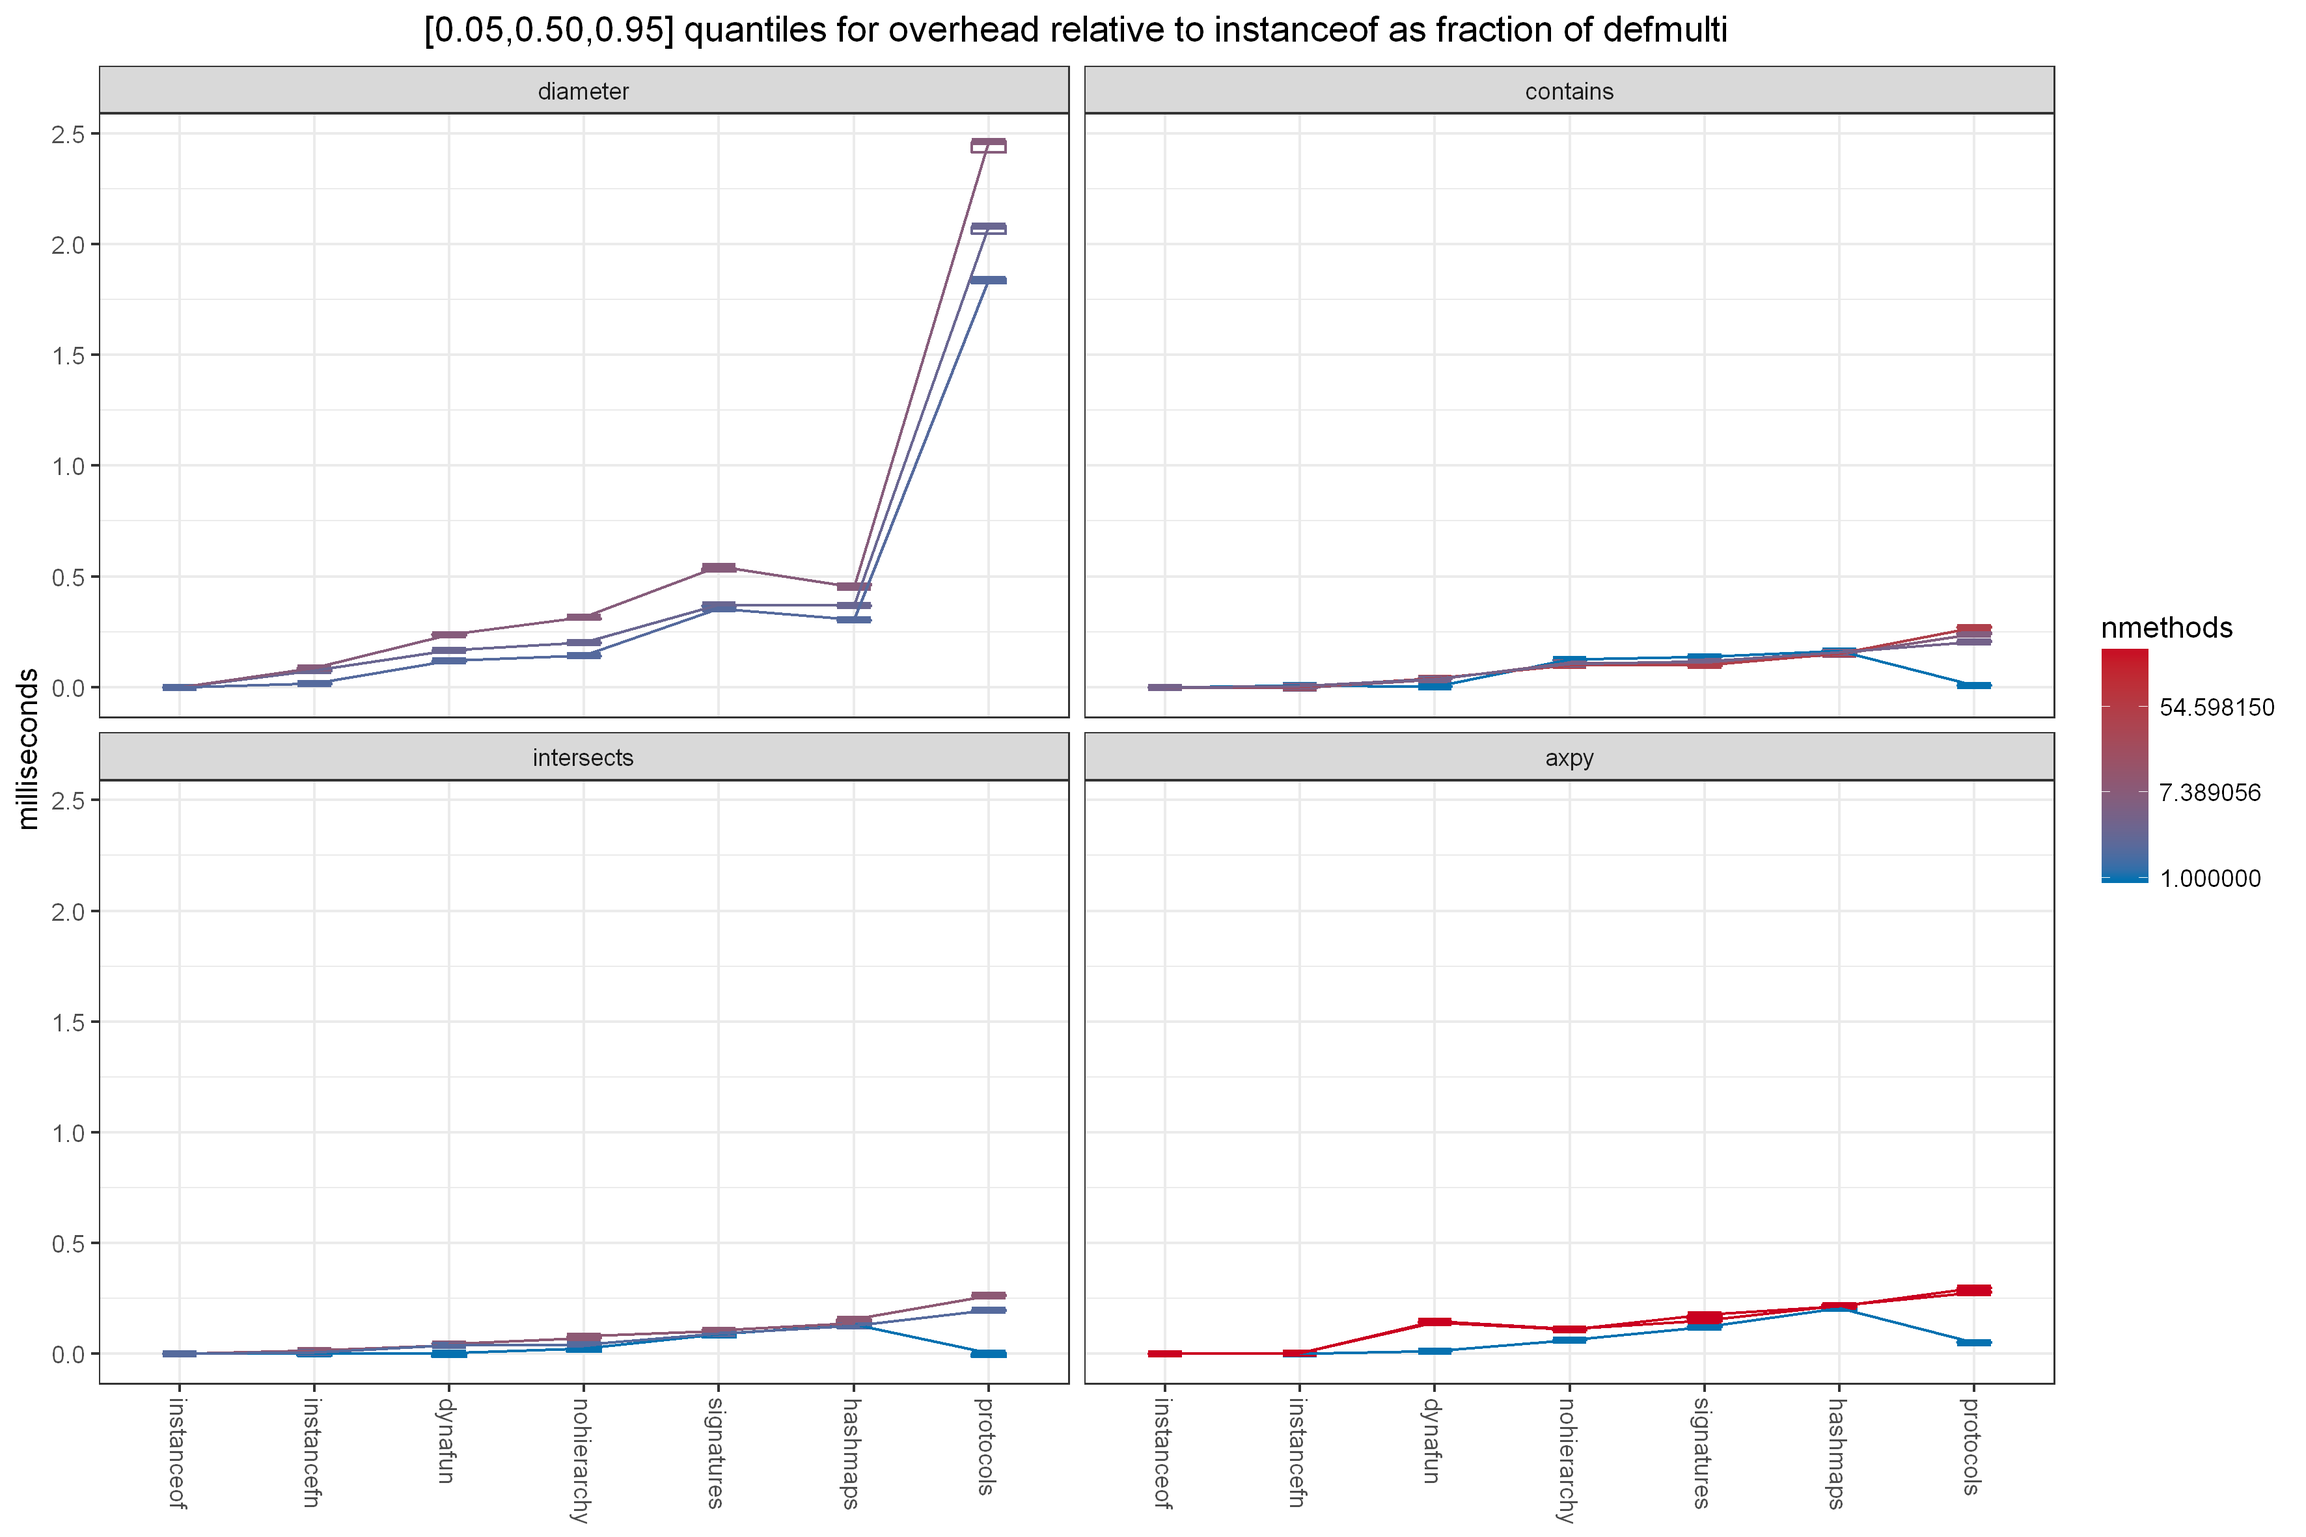
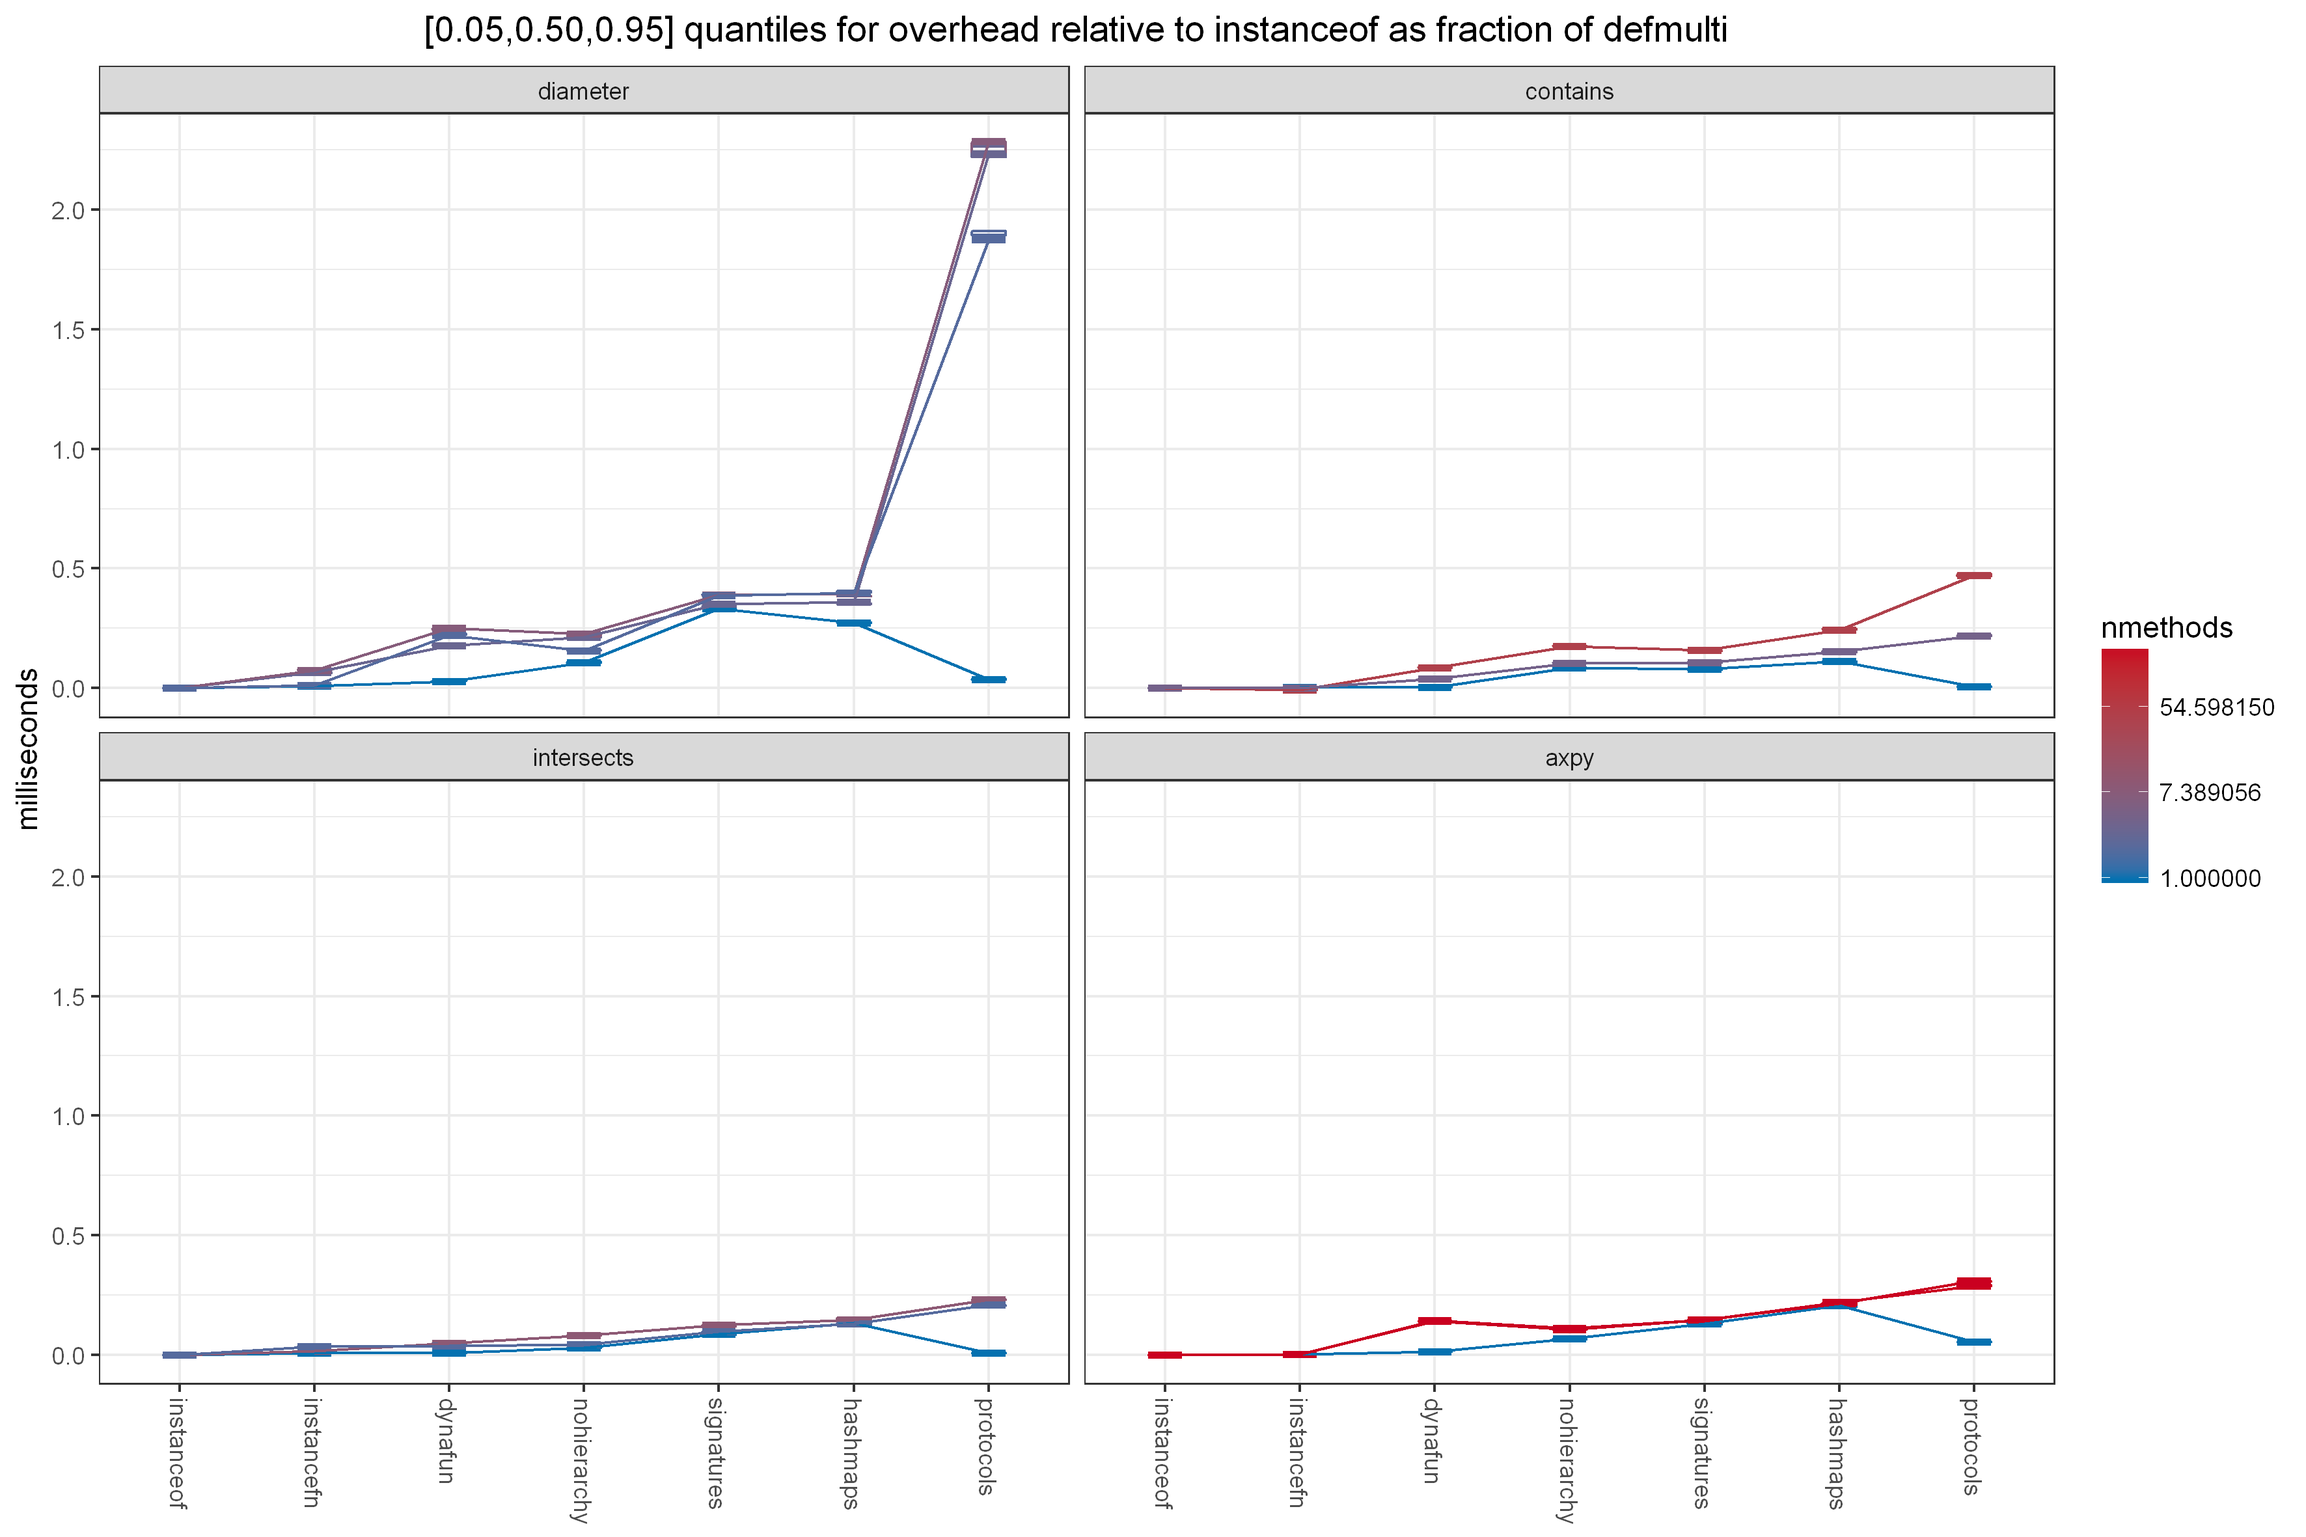
update plots

diff --git a/docs/figs/dynamic.md b/docs/figs/dynamic.md
@@ -7,7 +7,6 @@
 |diameter   |signatures  |        1|  28.65|  28.88|  29.25|  28.97|          0.33|          0.33|          0.34|          0.34|     27.63|              19.78|
 |diameter   |hashmaps    |        1|  24.94|  25.11|  25.44|  25.22|          0.27|          0.27|          0.27|          0.27|     24.05|              16.20|
 |diameter   |protocols   |        1|  10.50|  10.52|  10.54|  10.52|          0.04|          0.04|          0.04|          0.04|     10.03|               2.18|
-|diameter   |defmulti    |        1|  69.35|  70.30|  70.77|  70.11|          1.00|          1.00|          1.00|          1.00|     66.86|              59.01|
 |diameter   |instanceof  |        2|  14.69|  14.72|  14.77|  14.73|          0.00|          0.00|          0.00|          0.00|     14.05|               0.00|
 |diameter   |instancefn  |        2|  15.39|  15.40|  15.46|  15.42|          0.01|          0.01|          0.01|          0.01|     14.71|               0.66|
 |diameter   |dynafun     |        2|  29.87|  29.96|  30.09|  29.98|          0.23|          0.22|          0.22|          0.23|     28.59|              14.55|
@@ -15,7 +14,6 @@
 |diameter   |signatures  |        2|  40.78|  41.26|  41.67|  41.25|          0.39|          0.39|          0.39|          0.39|     39.34|              25.30|
 |diameter   |hashmaps    |        2|  41.53|  42.10|  42.58|  42.07|          0.40|          0.40|          0.41|          0.40|     40.12|              26.07|
 |diameter   |protocols   |        2| 142.48| 143.60| 144.61| 143.55|          1.91|          1.88|          1.90|          1.90|    136.90|             122.85|
-|diameter   |defmulti    |        2|  81.51|  83.42|  83.27|  82.38|          1.00|          1.00|          1.00|          1.00|     78.57|              64.52|
 |diameter   |instanceof  |        3|  27.51|  27.59|  27.62|  27.57|          0.00|          0.00|          0.00|          0.00|     26.29|               0.00|
 |diameter   |instancefn  |        3|  31.69|  31.77|  31.85|  31.78|          0.07|          0.06|          0.06|          0.07|     30.31|               4.02|
 |diameter   |dynafun     |        3|  39.05|  39.11|  39.52|  39.33|          0.18|          0.18|          0.18|          0.18|     37.51|              11.22|
@@ -23,7 +21,6 @@
 |diameter   |signatures  |        3|  49.15|  50.34|  50.30|  49.73|          0.34|          0.35|          0.34|          0.34|     47.42|              21.13|
 |diameter   |hashmaps    |        3|  49.83|  50.89|  51.14|  50.54|          0.35|          0.36|          0.36|          0.35|     48.20|              21.91|
 |diameter   |protocols   |        3| 171.72| 172.77| 174.68| 173.20|          2.26|          2.24|          2.22|          2.25|    165.17|             138.88|
-|diameter   |defmulti    |        3|  91.20|  92.53|  93.80|  92.36|          1.00|          1.00|          1.00|          1.00|     88.08|              61.79|
 |diameter   |instanceof  |        7|  34.62|  34.71|  34.81|  34.72|          0.00|          0.00|          0.00|          0.00|     33.11|               0.00|
 |diameter   |instancefn  |        7|  39.85|  39.85|  40.21|  40.03|          0.08|          0.07|          0.08|          0.08|     38.17|               5.06|
 |diameter   |dynafun     |        7|  51.49|  52.09|  52.51|  52.01|          0.25|          0.25|          0.25|          0.25|     49.60|              16.49|
@@ -31,7 +28,6 @@
 |diameter   |signatures  |        7|  61.21|  61.63|  62.61|  61.96|          0.39|          0.39|          0.39|          0.39|     59.09|              25.97|
 |diameter   |hashmaps    |        7|  60.97|  61.96|  62.33|  61.65|          0.38|          0.39|          0.38|          0.38|     58.79|              25.68|
 |diameter   |protocols   |        7| 191.78| 192.63| 195.42| 193.73|          2.28|          2.29|          2.24|          2.26|    184.76|             151.64|
-|diameter   |defmulti    |        7| 103.45| 103.74| 106.44| 105.04|          1.00|          1.00|          1.00|          1.00|    100.17|              67.06|
 |contains   |instanceof  |        1|  19.07|  19.09|  19.15|  19.11|          0.00|          0.00|          0.00|          0.00|     18.22|               0.00|
 |contains   |instancefn  |        1|  20.84|  20.95|  20.97|  20.91|          0.00|          0.00|          0.00|          0.00|     19.95|               1.72|
 |contains   |dynafun     |        1|  21.31|  21.30|  21.60|  21.46|          0.00|          0.00|          0.00|          0.00|     20.46|               2.24|
@@ -39,7 +35,6 @@
 |contains   |signatures  |        1|  60.93|  62.47|  63.63|  62.33|          0.08|          0.08|          0.08|          0.08|     59.44|              41.22|
 |contains   |hashmaps    |        1|  78.11|  79.98|  81.99|  80.11|          0.11|          0.11|          0.11|          0.11|     76.40|              58.18|
 |contains   |protocols   |        1|  22.58|  22.69|  22.72|  22.66|          0.01|          0.01|          0.01|          0.01|     21.61|               3.39|
-|contains   |defmulti    |        1| 564.01| 568.38| 580.75| 572.84|          1.00|          1.00|          1.00|          1.00|    546.30|             528.08|
 |contains   |instanceof  |        4|  34.30|  34.43|  34.50|  34.40|          0.00|          0.00|          0.00|          0.00|     32.81|               0.00|
 |contains   |instancefn  |        4|  34.85|  35.01|  35.12|  34.99|          0.00|          0.00|          0.00|          0.00|     33.37|               0.56|
 |contains   |dynafun     |        4|  54.27|  54.82|  55.57|  54.83|          0.04|          0.04|          0.04|          0.04|     52.29|              19.48|
@@ -47,7 +42,6 @@
 |contains   |signatures  |        4|  91.67|  93.22|  94.47|  93.13|          0.11|          0.11|          0.11|          0.11|     88.82|              56.01|
 |contains   |hashmaps    |        4| 114.27| 118.77| 120.52| 117.46|          0.15|          0.15|          0.16|          0.15|    112.02|              79.21|
 |contains   |protocols   |        4| 152.33| 153.72| 154.24| 153.33|          0.22|          0.22|          0.22|          0.22|    146.23|             113.42|
-|contains   |defmulti    |        4| 569.23| 582.58| 584.95| 577.60|          1.00|          1.00|          1.00|          1.00|    550.84|             518.03|
 |contains   |instanceof  |       42|  59.76|  60.11|  60.51|  60.14|          0.00|          0.00|          0.00|          0.00|     57.36|               0.00|
 |contains   |instancefn  |       42|  57.14|  57.66|  57.83|  57.49|         -0.01|         -0.01|         -0.01|         -0.01|     54.83|              -2.53|
 |contains   |dynafun     |       42|  84.90|  85.68|  87.73|  85.94|          0.08|          0.08|          0.09|          0.09|     81.95|              24.60|
@@ -55,7 +49,6 @@
 |contains   |signatures  |       42| 105.93| 107.58| 108.45| 107.21|          0.16|          0.16|          0.16|          0.16|    102.24|              44.88|
 |contains   |hashmaps    |       42| 132.36| 133.77| 136.95| 134.78|          0.24|          0.24|          0.25|          0.25|    128.53|              71.18|
 |contains   |protocols   |       42| 201.42| 202.54| 204.52| 203.01|          0.48|          0.47|          0.47|          0.47|    193.61|             136.25|
-|contains   |defmulti    |       42| 357.13| 362.73| 367.43| 362.10|          1.00|          1.00|          1.00|          1.00|    345.33|             287.97|
 |intersects |instanceof  |        1|  16.28|  16.41|  16.47|  16.37|          0.00|          0.00|          0.00|          0.00|     15.61|               0.00|
 |intersects |instancefn  |        1|  19.37|  19.53|  19.61|  19.48|          0.01|          0.01|          0.01|          0.01|     18.58|               2.97|
 |intersects |dynafun     |        1|  19.38|  19.48|  19.66|  19.50|          0.01|          0.01|          0.01|          0.01|     18.60|               2.99|
@@ -63,7 +56,6 @@
 |intersects |signatures  |        1|  52.90|  53.74|  55.03|  54.03|          0.08|          0.09|          0.09|          0.09|     51.53|              35.92|
 |intersects |hashmaps    |        1|  72.48|  73.98|  76.24|  74.44|          0.13|          0.13|          0.13|          0.13|     70.99|              55.39|
 |intersects |protocols   |        1|  19.77|  19.84|  19.98|  19.88|          0.01|          0.01|          0.01|          0.01|     18.96|               3.35|
-|intersects |defmulti    |        1| 453.71| 454.61| 463.37| 457.53|          1.00|          1.00|          1.00|          1.00|    436.34|             420.73|
 |intersects |instanceof  |        2|  22.14|  22.21|  22.30|  22.22|          0.00|          0.00|          0.00|          0.00|     21.19|               0.00|
 |intersects |instancefn  |        2|  41.50|  42.78|  42.93|  42.46|          0.03|          0.04|          0.04|          0.04|     40.49|              19.30|
 |intersects |dynafun     |        2|  43.26|  43.59|  43.97|  43.60|          0.04|          0.04|          0.04|          0.04|     41.58|              20.38|
@@ -71,7 +63,6 @@
 |intersects |signatures  |        2|  76.21|  78.48|  78.43|  77.32|          0.09|          0.10|          0.10|          0.10|     73.73|              52.54|
 |intersects |hashmaps    |        2|  94.55|  96.15|  99.28|  96.93|          0.13|          0.13|          0.13|          0.13|     92.44|              71.25|
 |intersects |protocols   |        2| 139.79| 141.75| 141.95| 140.90|          0.21|          0.21|          0.21|          0.21|    134.37|             113.18|
-|intersects |defmulti    |        2| 593.25| 595.92| 601.02| 596.98|          1.00|          1.00|          1.00|          1.00|    569.33|             548.13|
 |intersects |instanceof  |        9|  44.78|  45.13|  45.38|  45.07|          0.00|          0.00|          0.00|          0.00|     42.98|               0.00|
 |intersects |instancefn  |        9|  52.64|  53.25|  53.64|  53.19|          0.01|          0.01|          0.01|          0.01|     50.72|               7.74|
 |intersects |dynafun     |        9|  71.62|  72.06|  73.04|  72.33|          0.05|          0.05|          0.05|          0.05|     68.98|              26.00|
@@ -79,7 +70,6 @@
 |intersects |signatures  |        9| 111.29| 114.63| 115.16| 113.35|          0.12|          0.12|          0.12|          0.12|    108.10|              65.12|
 |intersects |hashmaps    |        9| 125.07| 127.41| 131.50| 128.40|          0.14|          0.15|          0.15|          0.15|    122.45|              79.47|
 |intersects |protocols   |        9| 172.46| 173.99| 174.86| 173.69|          0.23|          0.23|          0.23|          0.23|    165.65|             122.67|
-|intersects |defmulti    |        9| 599.55| 605.93| 607.41| 603.31|          1.00|          1.00|          1.00|          1.00|    575.36|             532.38|
 |axpy       |instanceof  |        1|  33.39|  33.51|  33.66|  33.54|          0.00|          0.00|          0.00|          0.00|     31.98|               0.00|
 |axpy       |instancefn  |        1|  33.78|  33.95|  34.09|  33.94|          0.00|          0.00|          0.00|          0.00|     32.37|               0.39|
 |axpy       |dynafun     |        1|  37.68|  38.05|  38.29|  38.04|          0.01|          0.01|          0.01|          0.01|     36.28|               4.30|
@@ -87,7 +77,6 @@
 |axpy       |signatures  |        1|  74.24|  75.91|  77.34|  75.86|          0.13|          0.13|          0.13|          0.13|     72.35|              40.37|
 |axpy       |hashmaps    |        1|  97.57| 100.50| 102.34|  99.85|          0.20|          0.21|          0.21|          0.20|     95.22|              63.24|
 |axpy       |protocols   |        1|  50.74|  51.28|  51.64|  51.22|          0.05|          0.05|          0.05|          0.05|     48.85|              16.87|
-|axpy       |defmulti    |        1| 353.68| 356.94| 364.74| 358.81|          1.00|          1.00|          1.00|          1.00|    342.19|             310.21|
 |axpy       |instanceof  |      216|  88.08|  89.62|  89.97|  89.14|          0.00|          0.00|          0.00|          0.00|     85.01|               0.00|
 |axpy       |instanceof  |      216|  89.19|  89.81|  91.15|  90.16|          0.00|          0.00|          0.00|          0.00|     85.98|               0.00|
 |axpy       |instancefn  |      216|  89.07|  90.31|  91.08|  90.09|          0.00|          0.00|          0.00|          0.00|     85.92|               0.91|
@@ -102,5 +91,3 @@
 |axpy       |hashmaps    |      216| 204.09| 207.19| 212.14| 208.00|          0.21|          0.21|          0.22|          0.21|    198.37|             112.39|
 |axpy       |protocols   |      216| 246.45| 247.90| 250.15| 248.25|          0.29|          0.29|          0.29|          0.29|    236.75|             151.75|
 |axpy       |protocols   |      216| 256.80| 259.58| 263.53| 260.41|          0.31|          0.31|          0.31|          0.31|    248.34|             162.36|
-|axpy       |defmulti    |      216| 634.47| 639.25| 647.51| 641.63|          1.00|          1.00|          1.00|          1.00|    611.91|             526.90|
-|axpy       |defmulti    |      216| 637.32| 638.08| 651.18| 643.86|          1.00|          1.00|          1.00|          1.00|    614.04|             528.06|
